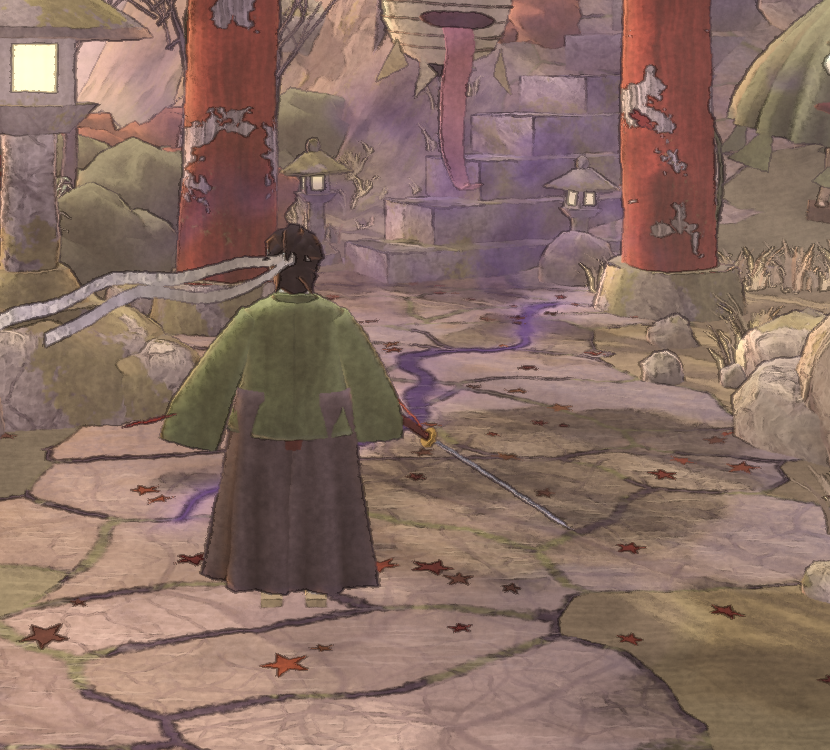
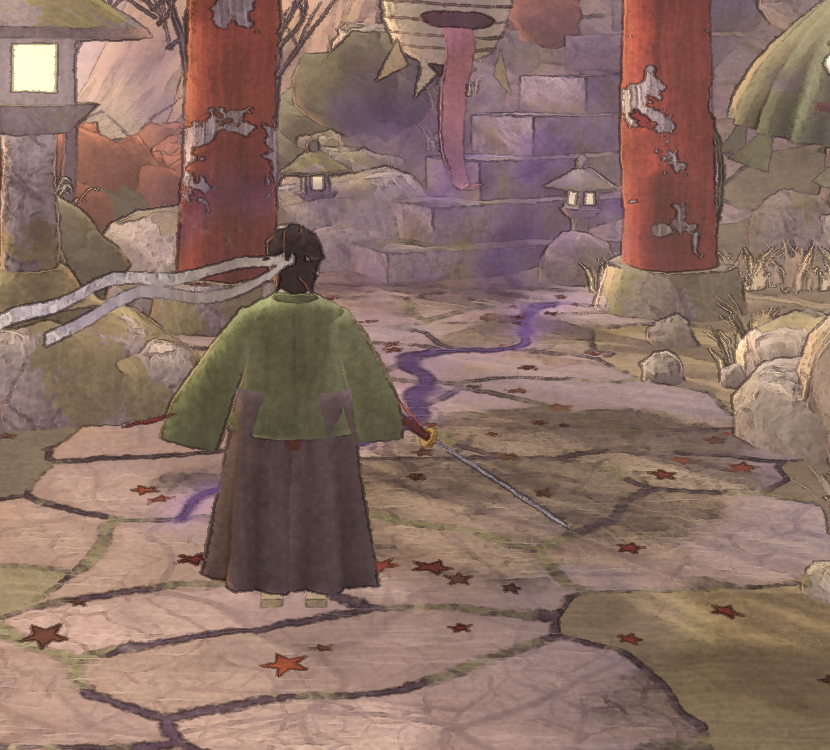
V3（途中）: 形の内側の線（面の折れ目）・品質ごとの軽量化・石段脇の岩・雲。PROGRESS と比較画像
Claude-Session: https://claude.ai/code/session_0145zJV95Y6pEXcinHn9hr8N

diff --git a/src/render/lookdev/shaders.js b/src/render/lookdev/shaders.js
@@ -250,6 +250,7 @@ uniform vec3 uInkCol;
 uniform vec4 uWash;   // x=縁のゆらぎ(px) y=にじみ(px) z=顔料のたまり w=粒状感
 uniform vec4 uLine;   // x=輪郭の濃さ y=太さ(px) z=奥行きの感度 w=色の境の線
 uniform vec4 uTone;   // x=彩度 y=コントラスト z=紙の白へ寄せる量 w=周囲の紙の余白
+uniform vec2 uCrease; // x=折れ目の感度 y=折れ目の線の濃さ
 uniform vec4 uGlow;   // x=光のにじみ y=紙の目 z=にじみで混ぜる量 w=時間
 varying vec2 vUv;
 
@@ -294,6 +295,13 @@ void main() {
   float du = linDepth(uv - vec2(0.0, lt.y)), dd = linDepth(uv + vec2(0.0, lt.y));
   float dEdge = (abs(dl + dr - 2.0 * dc) + abs(du + dd - 2.0 * dc)) / max(dc, 0.1);
   float line = smoothstep(uLine.z, uLine.z * 3.0, dEdge);
+  // 形の内側の線：面の折れ目（岩の稜・木組みの角・石段の縁）。奥行きバッファの値は平らな面の上では画面上で直線的に変わるので、
+  // その2階差が0でない所＝折れ目。輪郭より薄く、細く引く
+  float qc = 1.0 - texture2D(tDepth, uv).r;
+  float ql = 1.0 - texture2D(tDepth, uv - vec2(lt.x, 0.0)).r, qr = 1.0 - texture2D(tDepth, uv + vec2(lt.x, 0.0)).r;
+  float qu = 1.0 - texture2D(tDepth, uv - vec2(0.0, lt.y)).r, qd = 1.0 - texture2D(tDepth, uv + vec2(0.0, lt.y)).r;
+  float crease = (abs(ql + qr - 2.0 * qc) + abs(qu + qd - 2.0 * qc)) / max(qc, 1e-6);
+  line = max(line, smoothstep(uCrease.x, uCrease.x * 3.0, crease) * uCrease.y);
   vec3 cl = texture2D(tColor, uv - lt).rgb, cr = texture2D(tColor, uv + lt).rgb;
   line = max(line, smoothstep(0.10, 0.32, abs(luma(cl) - luma(cr))) * uLine.w);
   line *= 0.55 + 0.45 * smoothstep(0.35, 0.6, paper + wv2.x * 0.5); // かすれ

diff --git a/src/config/lookdev.js b/src/config/lookdev.js
@@ -62,6 +62,8 @@ export const lookdev = {
   outlinePx: { v: 0.6, min: 0.3, max: 3, step: 0.05, desc: '輪郭線の太さ（px）' },
   outlineDepthRatio: { v: 0.03, min: 0.001, max: 0.2, step: 0.001, desc: '輪郭線：奥行きの段差の感度（小さいほど線が増える）' },
   outlineColorRatio: { v: 0.0, min: 0, max: 1, step: 0.01, desc: '輪郭線：色の境にも引く量' },
+  creaseRatio: { v: 0.5, min: 0, max: 1, step: 0.01, desc: '形の内側の線（面の折れ目）の濃さ。輪郭線に対する比' },
+  creaseDepthRatio: { v: 0.002, min: 0.0002, max: 0.1, step: 0.0002, desc: '形の内側の線：折れ目の感度（小さいほど線が増える）' },
   saturationMul: { v: 0.86, min: 0, max: 2, step: 0.01, desc: '彩度（倍）' },
   contrastMul: { v: 1.14, min: 0.5, max: 2, step: 0.01, desc: 'コントラスト（倍）' },
   paperLiftRatio: { v: 0.04, min: 0, max: 0.6, step: 0.01, desc: '全体を紙の白へ寄せる量' },
@@ -83,5 +85,7 @@ export const lookdev = {
   floraMul: { v: { high: 1, mid: 0.6, low: 0.3 }, desc: '草・花・葉の量（倍）' },
   mistCount: { v: { high: 60, mid: 36, low: 16 }, desc: '靄の粒の数' },
   leafCount: { v: { high: 70, mid: 40, low: 16 }, desc: '舞う葉の数' },
+  meshDetailMul: { v: { high: 1, mid: 0.8, low: 0.6 }, desc: '形の細かさ（円や球の分割数に掛ける。スマホ向けに三角形を減らす）' },
+  scatterMul: { v: { high: 1, mid: 0.8, low: 0.5 }, desc: '散らす岩・茂みの数（倍）' },
   bloomDivCount: { v: 4, min: 2, max: 8, step: 1, desc: '光のにじみの解像度（画面の何分の1か）' },
 };

diff --git a/src/render/lookdev/build.js b/src/render/lookdev/build.js
@@ -135,8 +135,9 @@ function loftGeometry(p) {
   return g;
 }
 
-/** 部品1つ → three のジオメトリ（局所座標）。 */
-function shapeGeometry(p) {
+/** 部品1つ → three のジオメトリ（局所座標）。segMul＝円周の分割数に掛ける倍率（品質ごと）。ひだのある形は山の数を保つ。 */
+function shapeGeometry(p0, segMul) {
+  const p = segMul === 1 || p0.seg === undefined || p0.flute ? p0 : { ...p0, seg: Math.max(N4, Math.round(p0.seg * segMul)) };
   switch (p.s) {
     case 'box': {
       const g = new BoxGeometry(p.size[0], p.size[1], p.size[2], p.segs?.[0] ?? 1, p.segs?.[1] ?? 1, p.segs?.[2] ?? 1);
@@ -243,7 +244,7 @@ function jitterGeometry(g, amount, freq, seed, oct) {
 
 /**
  * 部品の表をためて、最後に1つのジオメトリにする。
- * @param {{models?:Record<string, any>, palette?:Record<string, any>, aoGain?:number}} [lib] ref で引く部品の表と、色の名前の表
+ * @param {{models?:Record<string, any>, palette?:Record<string, any>, aoGain?:number, segMul?:number}} [lib] ref で引く部品の表と、色の名前の表
  */
 export function createBuilder(lib = {}) {
   /** @type {number[]} */ const P = [];
@@ -279,7 +280,7 @@ export function createBuilder(lib = {}) {
       for (const q of parts) add(q, m, sub);
       return;
     }
-    let g = shapeGeometry(p);
+    let g = shapeGeometry(p, lib.segMul ?? 1);
     if (p.flute) fluteGeometry(g, p.flute);
     if (p.bendY) bendGeometry(g, p.bendY, p.size[0] * HALF);
     if (p.jitter) {

diff --git a/src/render/lookdev/view.js b/src/render/lookdev/view.js
@@ -32,7 +32,6 @@ const col = (hex, gain = 1) => new Color(hex).multiplyScalar(gain);
 export function createLookdevView(renderer, cfg) {
   const scene = new Scene();
   const cameraView = createCameraView(cfg);
-  const lib = { models, palette: S.palette, aoGain: S.aoGain };
   const terrain = createTerrain(S.terrain, S.path);
   const post = createPost(cfg, S);
   const sun = new Vector3(S.sunDir[0], S.sunDir[1], S.sunDir[2]).normalize();
@@ -159,6 +158,7 @@ export function createLookdevView(renderer, cfg) {
     const oct = L.octaveCount[q];
     const mul = L.floraMul[q];
     const o = world.stage.playerStart.pos;
+    const lib = { models, palette: S.palette, aoGain: S.aoGain, segMul: L.meshDetailMul[q] };
     const rng = createRng(presentationSeed(world.stage.seed));
     root = new Group();
     root.position.set(o[0], o[1], o[2]);
@@ -210,7 +210,7 @@ export function createLookdevView(renderer, cfg) {
     const washMat = washMaterial(baseDefines, {}, still);
     const sb = createBuilder(lib);
     placeAll(sb, S.placements, terrain);
-    addScatter(sb, S, terrain, rng.fork('scatter'));
+    addScatter(sb, S, terrain, rng.fork('scatter'), L.scatterMul[q]);
     addSenbon(sb, S, terrain);
     addIslands(sb, S);
     addBareTrees(sb, S, terrain, rng.fork('trees'));

diff --git a/src/render/lookdev/post.js b/src/render/lookdev/post.js
@@ -47,6 +47,7 @@ export function createPost(cfg, S) {
       uLine: { value: new Vector4() },
       uTone: { value: new Vector4() },
       uGlow: { value: new Vector4() },
+      uCrease: { value: new Vector2() },
     },
     depthTest: false,
     depthWrite: false,
@@ -112,6 +113,7 @@ export function createPost(cfg, S) {
       u.uNearFar.value.set(camera.near, camera.far);
       u.uWash.value.set(L.wobblePx * k, L.bleedPx * k, L.poolRatio, L.granulationRatio);
       u.uLine.value.set(L.outlineRatio, linePx, L.outlineDepthRatio, L.outlineColorRatio);
+      u.uCrease.value.set(L.creaseDepthRatio, L.creaseRatio);
       u.uTone.value.set(L.saturationMul, L.contrastMul, L.paperLiftRatio, L.borderRatio);
       u.uGlow.value.set(o.bloom ? L.bloomRatio : 0, L.paperGrainRatio, L.bleedMixRatio, o.time);
       pass(three, postMat, null);

diff --git a/src/data/lookdev/scene.js b/src/data/lookdev/scene.js
@@ -324,6 +324,7 @@ export const scene = {
   scatter: [
     { models: ['pebbleA', 'pebbleB'], count: 46, edge: [-13, 9], offM: [2.4, 3.5], scale: [0.14, 0.42], sink: 0.12, tilt: 20 },
     { models: ['rockA', 'rockB', 'rockC'], count: 14, edge: [-13, 9], offM: [3.0, 4.2], scale: [0.4, 0.8], sink: 0.2, tilt: 14 },
+    { models: ['rockC', 'rockB', 'pebbleA'], count: 16, edge: [9.8, 16], offM: [2.5, 4.2], scale: [0.45, 1.2], sink: 0.3, tilt: 16 },
     { models: ['pebbleB', 'rockShore'], count: 26, disc: [7.5, 0, 9], scale: [0.4, 1.3], sink: 0.3, tilt: 20 },
     { models: ['rockC', 'rockB'], count: 12, disc: [-16, 6, 8], scale: [0.5, 1.2], sink: 0.35, tilt: 16 },
     { models: ['rockC', 'rockB'], count: 10, disc: [0, 19, 7], scale: [0.4, 1.0], sink: 0.35, tilt: 16 },

diff --git a/src/render/lookdev/flora.js b/src/render/lookdev/flora.js
@@ -218,7 +218,7 @@ export function addFallenLeaves(b, S, terrain, rng, mul) {
 }
 
 /** 小石・岩・茂みを散らす（参道の縁、岸、丘の斜面）。 */
-export function addScatter(b, S, terrain, rng) {
+export function addScatter(b, S, terrain, rng, mul = 1) {
   const pathX = (z) => {
     const P = S.path;
     if (z <= P[0][1]) return P[0][0];
@@ -228,7 +228,8 @@ export function addScatter(b, S, terrain, rng) {
     return P[P.length - 1][0];
   };
   for (const sc of S.scatter) {
-    for (let k = 0; k < sc.count; k++) {
+    const count = Math.max(1, Math.round(sc.count * mul));
+    for (let k = 0; k < count; k++) {
       let x = 0;
       let z = 0;
       if (sc.edge) {

diff --git a/src/render/lookdev/shadersBake.js b/src/render/lookdev/shadersBake.js
@@ -142,7 +142,7 @@ void main() {
   float cs = fbm2(q + wv * 1.6 + vec2(0.0, 0.22));
   float puff = fbm2(q * 3.3 + wv * 3.0 + 5.0);
   float ripple = fbm2(q * vec2(7.0, 9.0) + wv * 4.0 + 21.0);
-  float field = c * 0.56 + puff * 0.3 + ripple * 0.14;
+  float field = c * 0.52 + puff * 0.28 + ripple * 0.2;
   float cover = mix(0.56, 0.4, smoothstep(0.06, 0.5, h)) - (uSky.y - 0.5) * 0.3;
   float dens = smoothstep(cover, cover + 0.14, field) * smoothstep(-0.01, 0.05, e);
   float under = clamp((c - cs) * 4.5 + 0.5, 0.0, 1.0); // 夕日を向いた側

diff --git a/PROGRESS.md b/PROGRESS.md
@@ -37,14 +37,18 @@
 - [x] **唐傘**：大きな一つ目とまぶた、破れ穴、平たい舌、膝のある一本足と下駄。位置を鳥居の右へ（柱に隠れていた）
 - [x] **提灯**：平たい長い舌、全体が風で揺れる（舌は先ほど大きく）
 - [x] 裂け目を細く暗く（紫の帯に見えていた）
-- [ ] 残り：下の「まだ遠い点」の 1・3・4・5
+- [x] **形の内側の線**：後処理で面の折れ目（木組みの角・石段の縁・岩の稜）に、輪郭より薄い線を引く（`creaseRatio`・`creaseDepthRatio`）。効きは控えめ（岩は面がなめらかなので線が少ない）
+- [x] **スマホ向けの軽量化**：品質ごとに形の細かさ（`meshDetailMul`）と散らす数（`scatterMul`）を減らす。三角形は 高 約40万／中 約28万／低 約11万（V2 の低は約15万）
+- [x] 石段の両脇に岩、雲を少し細かく
+- [x] テスト：`npm run verify` 成功（単体137件・e2e 46件、エラー0件）。比較 `design-notes/lookdev/compare_v3.png`、`v3_high.png`・`v3_phone_1000x330.png`（スマホと同じ画面の大きさ）・`v3_hero.png`・`v3_yokai.png`
+- [ ] 残り：下の「まだ遠い点」
 
 ### まだ遠い点（V3 の残り。効果の大きい順）
-1. **線と筆致**：参考は細い墨線で形の内側（石の割れ・木の皮・瓦）まで描き込んである。今は輪郭だけ。面の質感ももう一段細かく
-2. **主人公と妖怪**：体形はできたが、顔・手・布のしわ・毛並みが簡素。動き（待機の揺れ・歩き）も最小限
-3. **地形の形**：鳥居の奥の丘と石段が単調。参考は岩の露頭・段差・木の根が多い。左下の波しぶきが無い
-4. **空**：雲の形は近づいたが、参考の「細かなうろこ雲」と紙のざらつきが足りない
-5. **実機の重さは未確認**（ヘッドレスのソフトウェア描画でのみ確認）。「高」が重ければ試験メニューで「中」「低」へ。三角形の数は V3 で品質ごとに減らす
+1. **面の描き込みと線**：参考は細い墨線で形の内側（石の割れ・木の皮・瓦）まで描いてある。内側の線は入れたが、まだ輪郭が主。岩に稜（角ばり）を付ける・質感のひびを線として強める
+2. **主人公と妖怪の動き**：形は作り込んだが、動きは歩きの脚と布・舌の揺れだけ。待機の呼吸、妖怪の身じろぎ、顔の表情が無い
+3. **地形の形**：鳥居の奥の丘と石段がまだ単調（木の根・段差・崩れた石垣）。左下の波しぶきが無い
+4. **空**：参考の「細かなうろこ雲」と紙のざらつきにはまだ遠い
+5. **実機の重さ**：依頼者の実機（iPhone の Safari）で「高」が表示できることは確認済み。fps は未確認
 
 ### 決めたこと（V1・V2。設計書に無い部分）
 - 形はすべて「部品の表」（box・cyl・sph・lathe・tube・ribbon・fan。ひだ `flute`・反り `bendY`・凹凸 `jitter`）から組む（`render/lookdev/build.js`、表は `data/lookdev/models.js`）。地形は式（`terrain.js`）、草木と散らし物は種つき乱数（`flora.js`）
